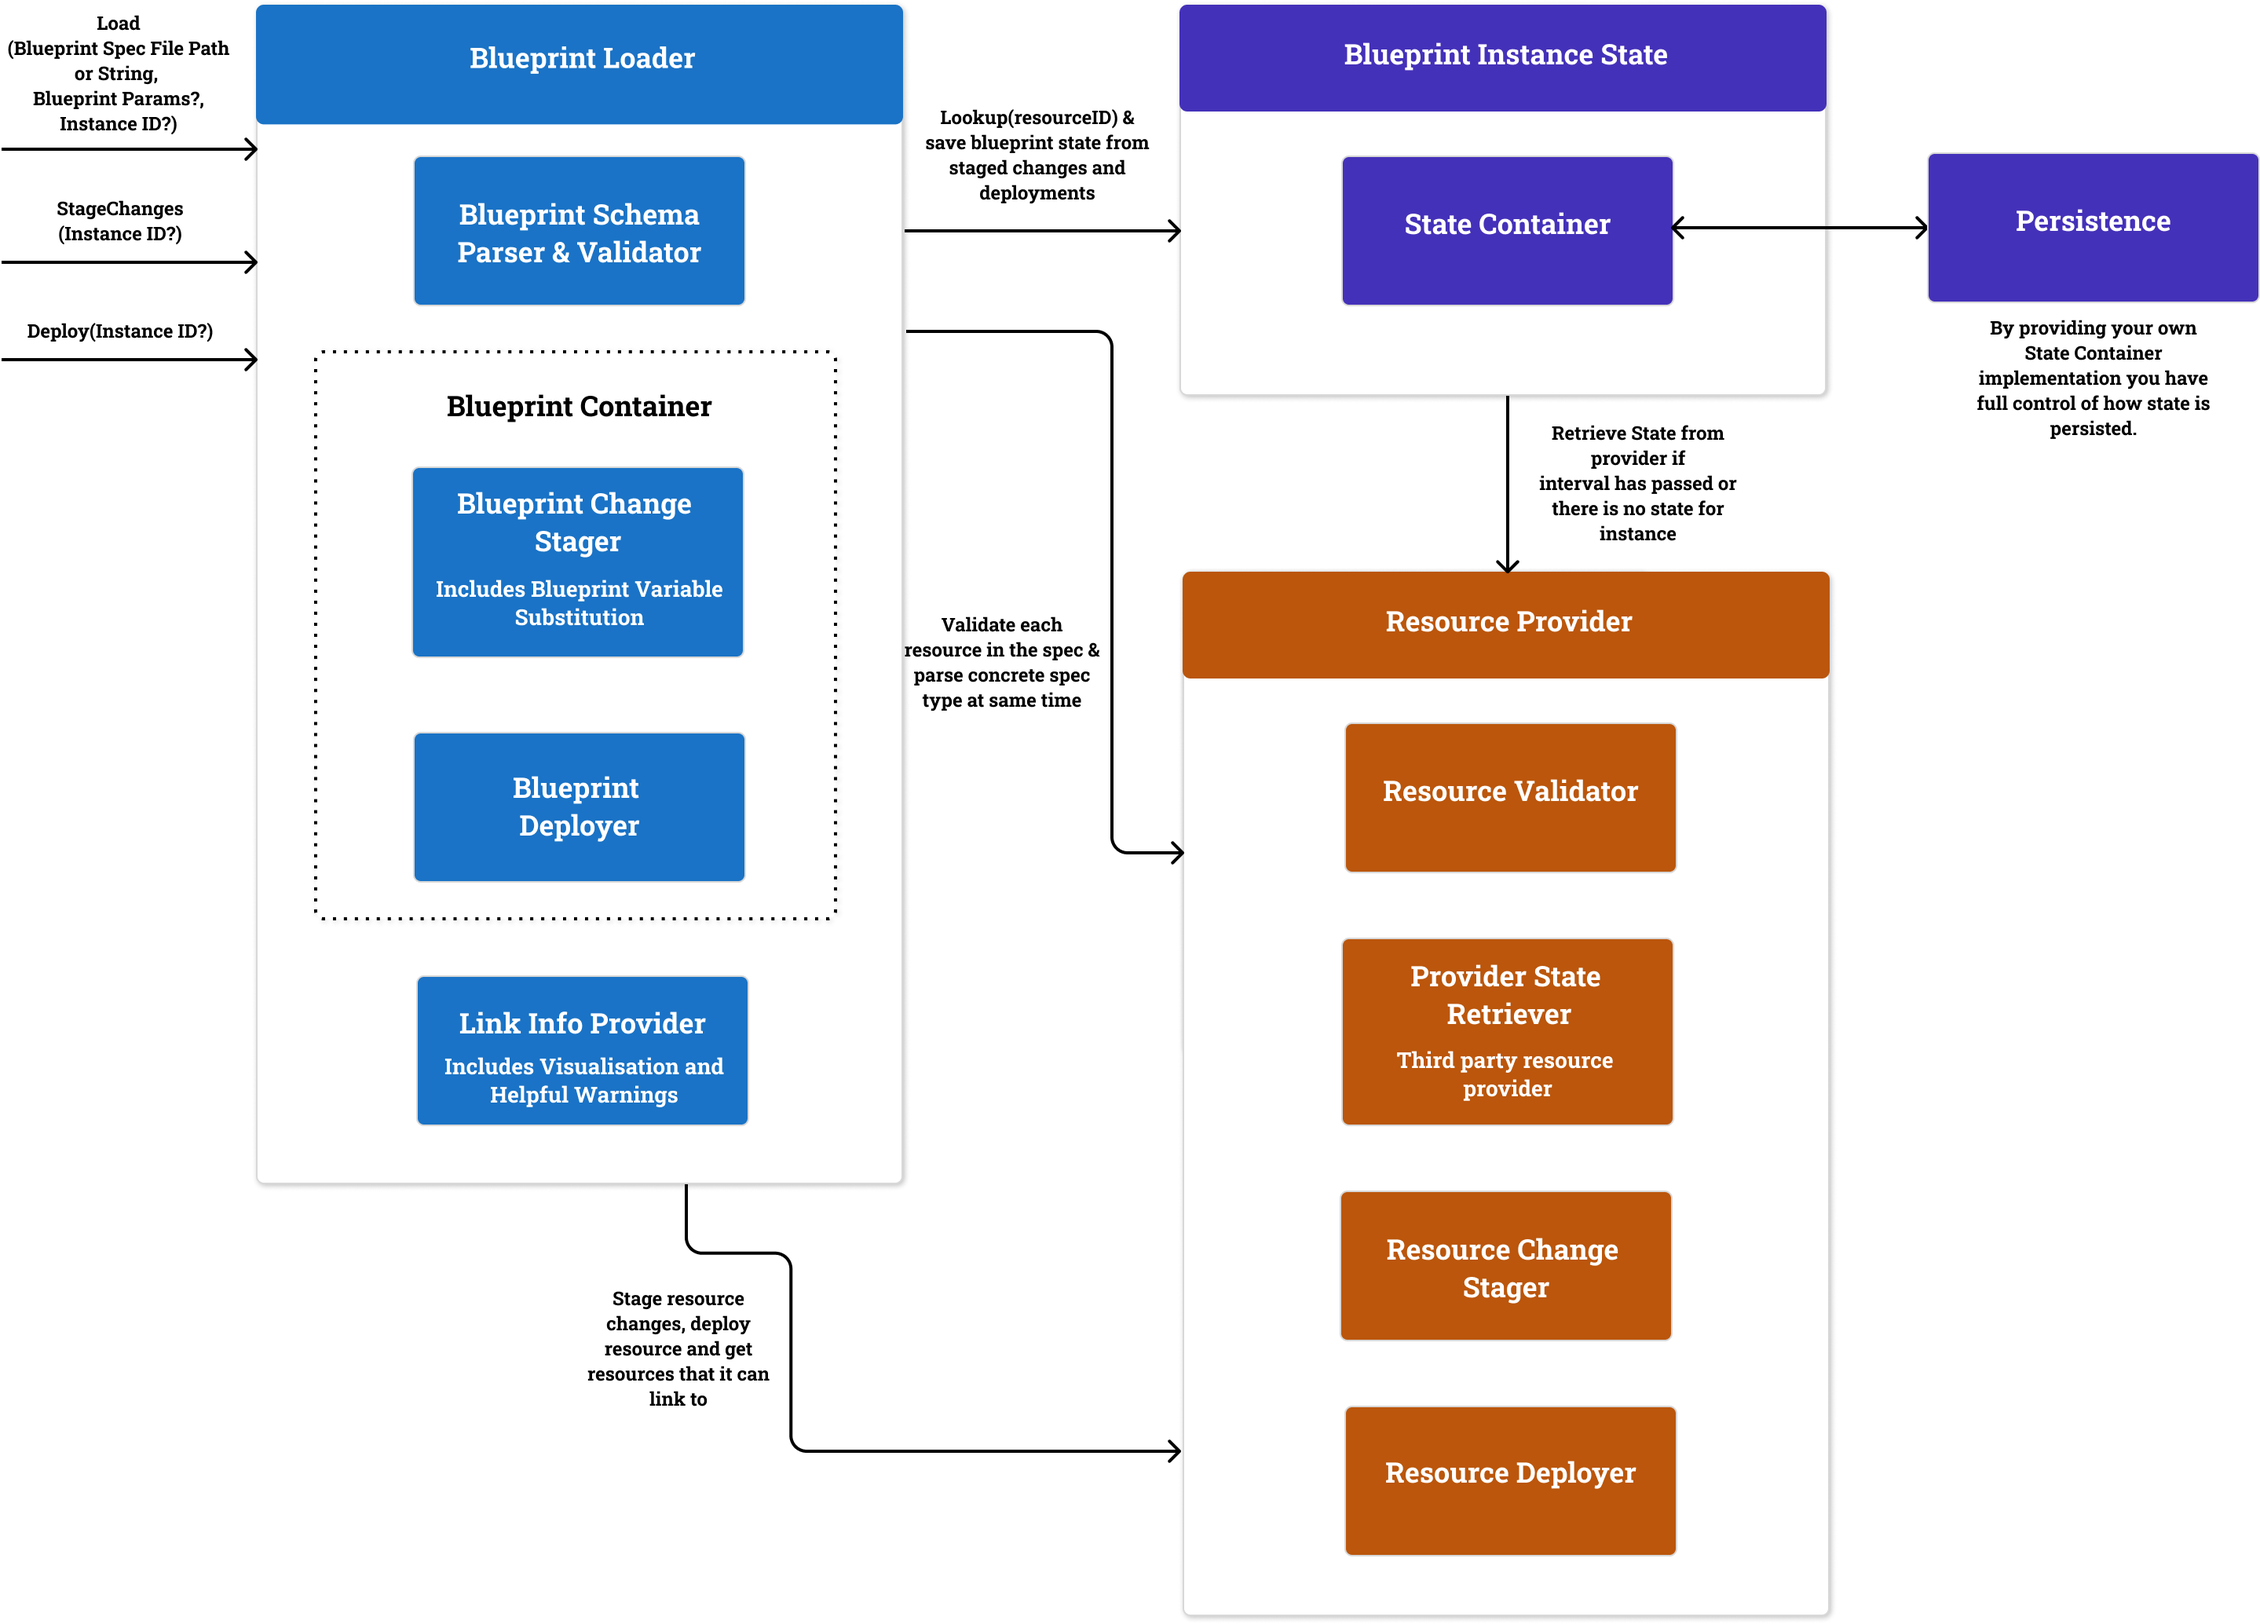
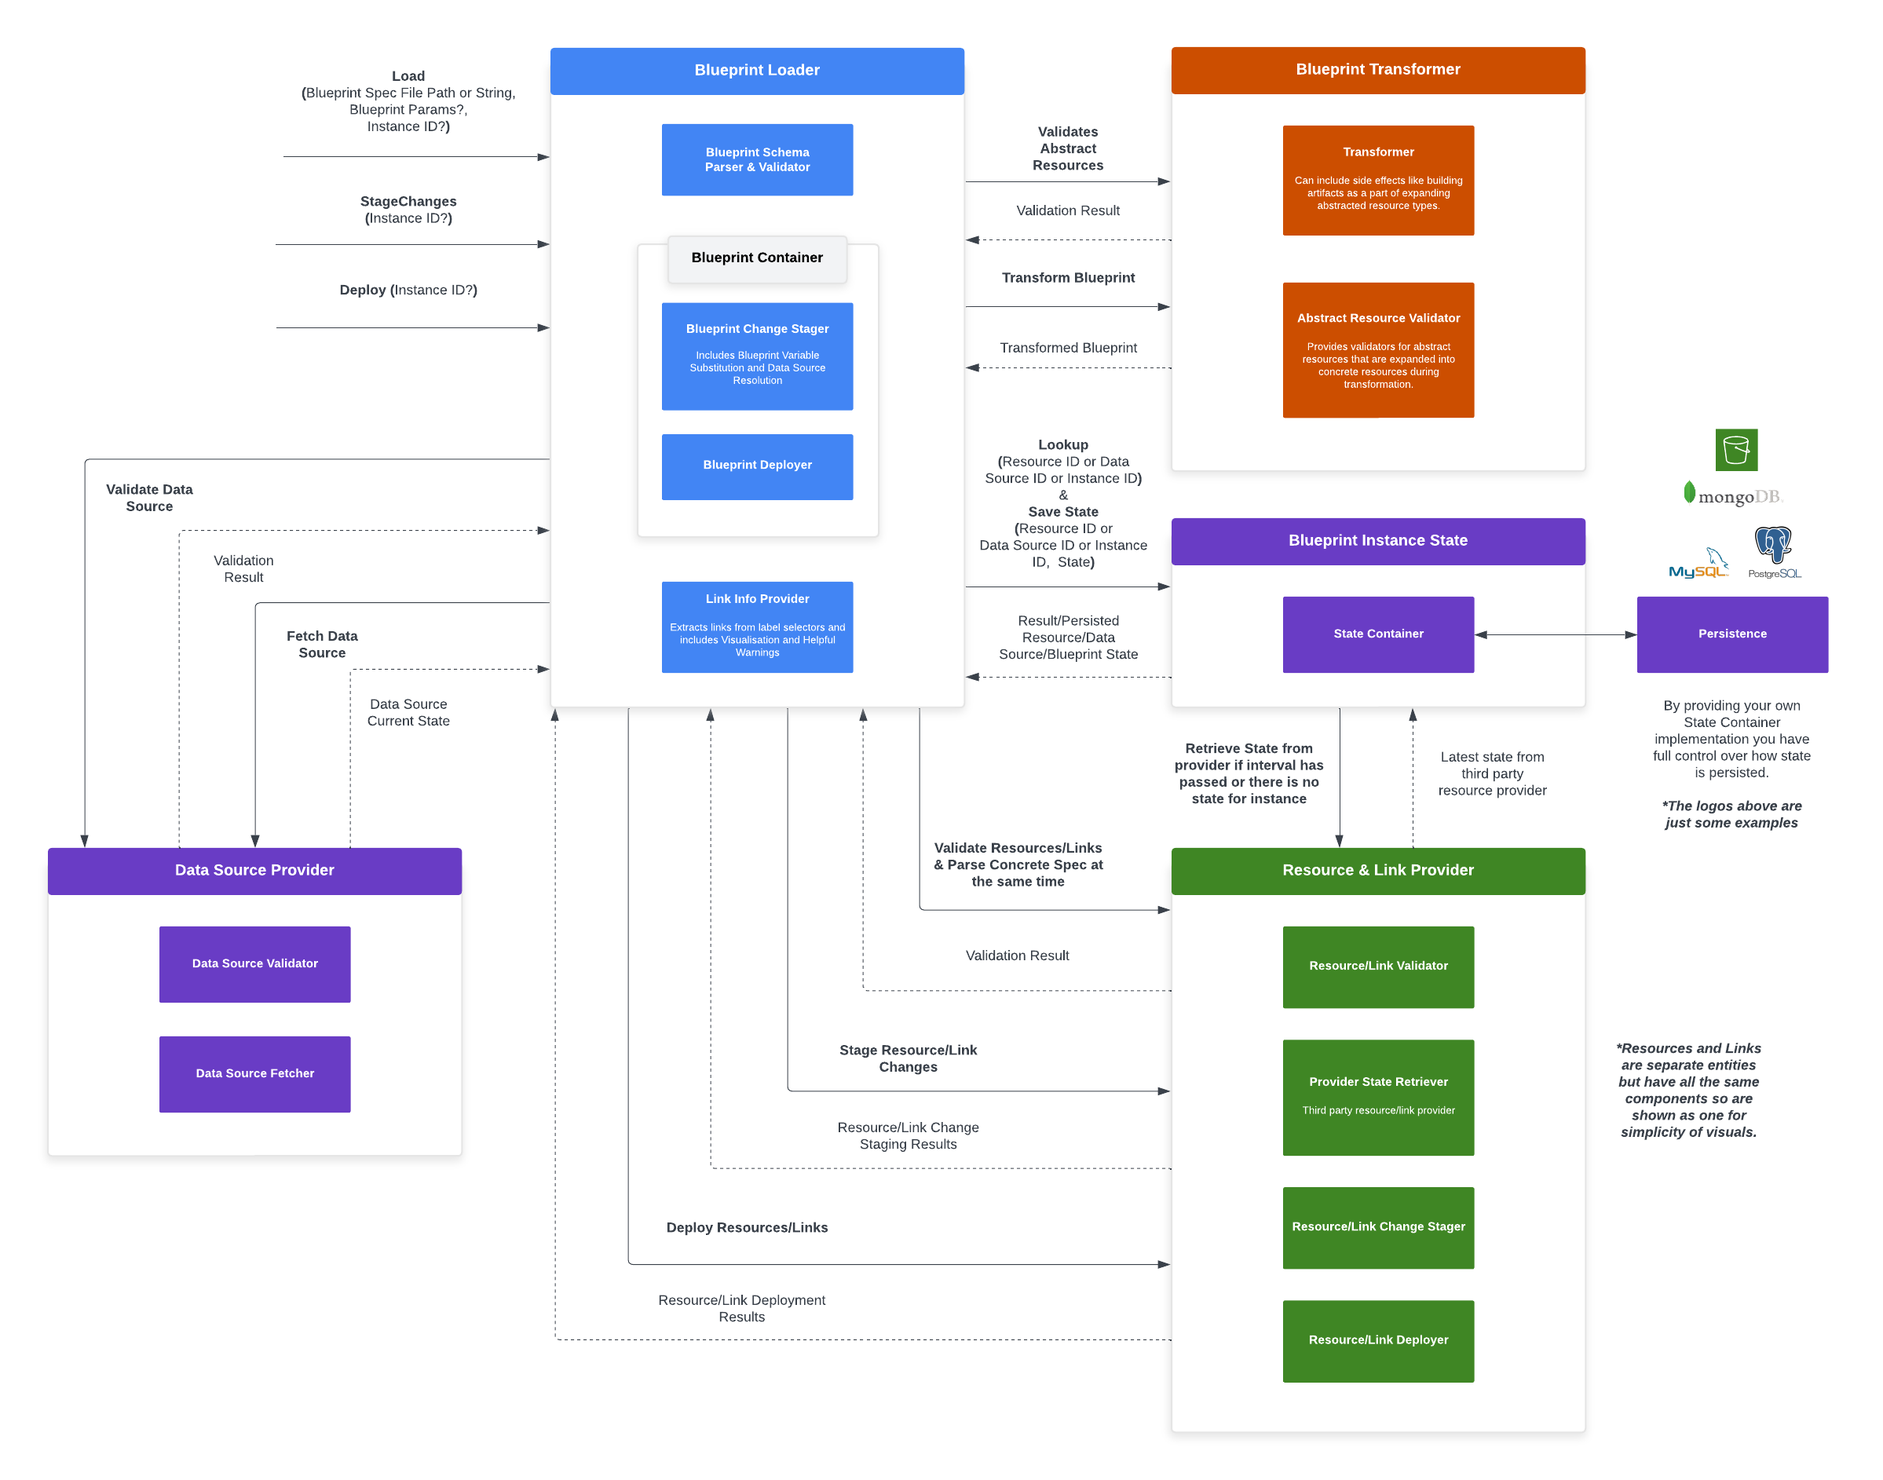
docs(blueprint): update blueprint framework architecture diagram
Updates the blueprint framework architecture diagram
to include transformers, data source providers
and link providers. Resource providers and link providers
are bundled together to keep the visuals somewhat simple
as they both contain the same set of components.

diff --git a/libs/blueprint/README.md b/libs/blueprint/README.md
@@ -1,10 +1,10 @@
-# blueprint library
+# blueprint framework
 
 [![Coverage](https://sonarcloud.io/api/project_badges/measure?project=two-hundred_celerity-blueprint&metric=coverage)](https://sonarcloud.io/summary/new_code?id=two-hundred_celerity-blueprint)
 [![Security Rating](https://sonarcloud.io/api/project_badges/measure?project=two-hundred_celerity-blueprint&metric=security_rating)](https://sonarcloud.io/summary/new_code?id=two-hundred_celerity-blueprint)
 [![Maintainability Rating](https://sonarcloud.io/api/project_badges/measure?project=two-hundred_celerity-blueprint&metric=sqale_rating)](https://sonarcloud.io/summary/new_code?id=two-hundred_celerity-blueprint)
 
-The blueprint library (Also known as the blueprint lifecycle framework or blueprint engine) is the foundation for Celerity application deployments that can be used as a standalone library for cloud and other resource deployment systems.
+The blueprint framework is the foundation for Celerity application deployments that can be used as a standalone library for cloud and other resource deployment systems.
 
 ## Getting set up
 
